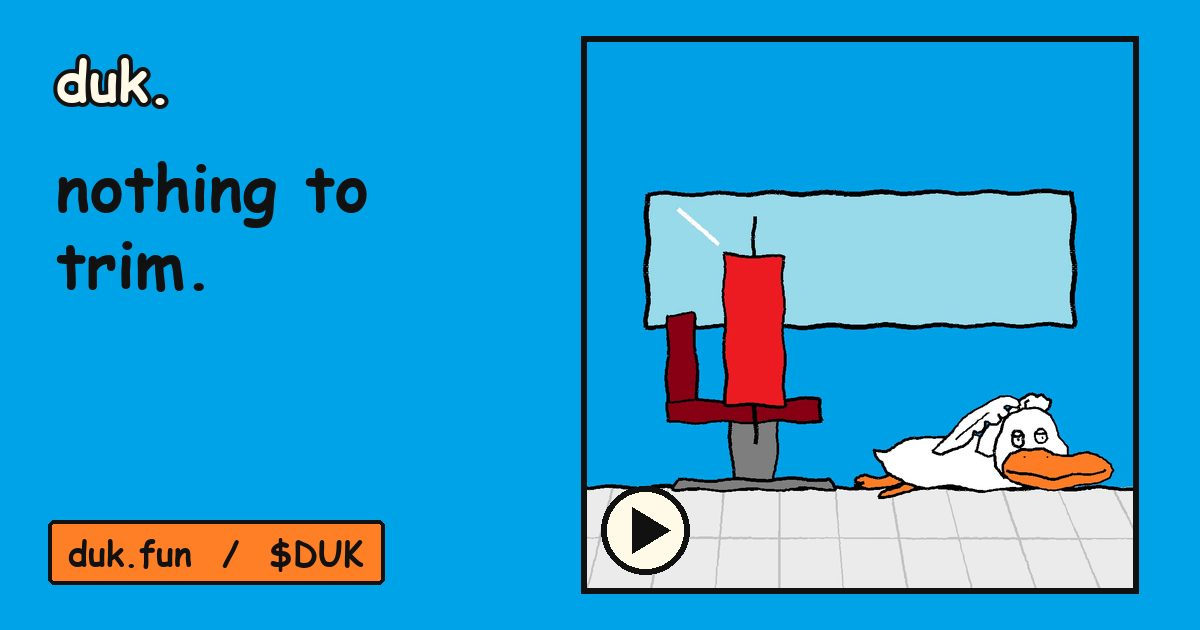
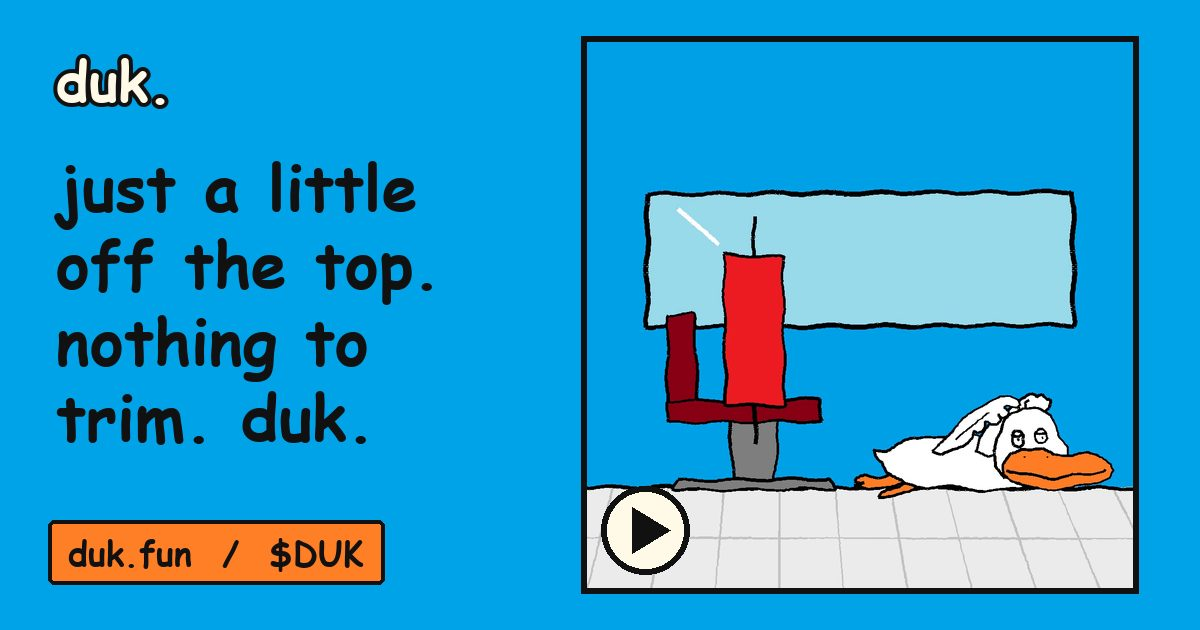
content: 204 memes, 9 comics, 132 gifs, 116 clips

Changed region(s): [[0.0308, 0.2413, 0.37, 0.7238], [0.0308, 0.6333, 0.185, 0.7238]]

diff --git a/s/clips2-116_started_on_the_floor.html b/s/clips2-116_started_on_the_floor.html
@@ -3,27 +3,27 @@
 <head>
   <meta charset="utf-8">
   <meta name="viewport" content="width=device-width, initial-scale=1">
-  <title>started on the floor. / duk.</title>
+  <title>twister. everyone fell over. he started on the floor. $duk / duk.</title>
   <meta name="robots" content="noindex">
   <meta name="duk-card" content="4">
-  <meta name="description" content="started on the floor.">
-  <meta property="og:title" content="started on the floor.">
+  <meta name="description" content="Game of twister in the living room. A spinner calls out moves and three red candles lean further and further until they topple over like dominoes. DUK lies flat across the mat in THE DUK pose the whole time. &quot;twister.&quot; &quot;everyone fell over.&quot; &quot;he started on the floor.&quot; &quot;duk.&quot;">
+  <meta property="og:title" content="twister. everyone fell over. he started on the floor. $duk">
   <meta property="og:description" content="just duk. $DUK">
   <meta property="og:type" content="website">
   <meta property="og:url" content="https://duk.fun/s/clips2-116_started_on_the_floor.html">
-  <meta property="og:image" content="https://duk.fun/s/img/clips2-116_started_on_the_floor.jpg?v=1d9a4f9e">
+  <meta property="og:image" content="https://duk.fun/s/img/clips2-116_started_on_the_floor.jpg?v=c166dfb2">
   <meta property="og:image:width" content="1200">
   <meta property="og:image:height" content="630">
-  <meta property="og:image:alt" content="started on the floor.">
+  <meta property="og:image:alt" content="Game of twister in the living room. A spinner calls out moves and three red candles lean further and further until they topple over like dominoes. DUK lies flat across the mat in THE DUK pose the whole time. &quot;twister.&quot; &quot;everyone fell over.&quot; &quot;he started on the floor.&quot; &quot;duk.&quot;">
   <meta property="og:site_name" content="duk.">
   <meta name="twitter:card" content="summary_large_image">
-  <meta name="twitter:title" content="started on the floor.">
+  <meta name="twitter:title" content="twister. everyone fell over. he started on the floor. $duk">
   <meta name="twitter:description" content="just duk. $DUK">
-  <meta name="twitter:image" content="https://duk.fun/s/img/clips2-116_started_on_the_floor.jpg?v=1d9a4f9e">
-  <meta name="twitter:image:alt" content="started on the floor.">
+  <meta name="twitter:image" content="https://duk.fun/s/img/clips2-116_started_on_the_floor.jpg?v=c166dfb2">
+  <meta name="twitter:image:alt" content="Game of twister in the living room. A spinner calls out moves and three red candles lean further and further until they topple over like dominoes. DUK lies flat across the mat in THE DUK pose the whole time. &quot;twister.&quot; &quot;everyone fell over.&quot; &quot;he started on the floor.&quot; &quot;duk.&quot;">
   <meta name="twitter:site" content="@justdukfun">
   <meta http-equiv="refresh" content="0; url=../watch.html#clip-116_started_on_the_floor">
   <script>location.replace("../watch.html#clip-116_started_on_the_floor");</script>
 </head>
-<body><p><a href="../watch.html#clip-116_started_on_the_floor">started on the floor.</a></p></body>
+<body><p><a href="../watch.html#clip-116_started_on_the_floor">twister. everyone fell over. he started on the floor. $duk</a></p></body>
 </html>

diff --git a/s/clips2-115_nothing_to_trim.html b/s/clips2-115_nothing_to_trim.html
@@ -3,27 +3,27 @@
 <head>
   <meta charset="utf-8">
   <meta name="viewport" content="width=device-width, initial-scale=1">
-  <title>nothing to trim. / duk.</title>
+  <title>just a little off the top. nothing to trim. duk. / duk.</title>
   <meta name="robots" content="noindex">
   <meta name="duk-card" content="4">
-  <meta name="description" content="nothing to trim.">
-  <meta property="og:title" content="nothing to trim.">
+  <meta name="description" content="A barber shop. Buzzing clippers sweep across at lower and lower heights and trim a red candle in the barber chair down to a stub, pieces flying. DUK lies flat on the floor in THE DUK pose; the last pass skims right over him. &quot;just a little off the top.&quot; &quot;nothing to trim.&quot; &quot;duk.&quot;">
+  <meta property="og:title" content="just a little off the top. nothing to trim. duk.">
   <meta property="og:description" content="just duk. $DUK">
   <meta property="og:type" content="website">
   <meta property="og:url" content="https://duk.fun/s/clips2-115_nothing_to_trim.html">
-  <meta property="og:image" content="https://duk.fun/s/img/clips2-115_nothing_to_trim.jpg?v=309a8f77">
+  <meta property="og:image" content="https://duk.fun/s/img/clips2-115_nothing_to_trim.jpg?v=725fe36d">
   <meta property="og:image:width" content="1200">
   <meta property="og:image:height" content="630">
-  <meta property="og:image:alt" content="nothing to trim.">
+  <meta property="og:image:alt" content="A barber shop. Buzzing clippers sweep across at lower and lower heights and trim a red candle in the barber chair down to a stub, pieces flying. DUK lies flat on the floor in THE DUK pose; the last pass skims right over him. &quot;just a little off the top.&quot; &quot;nothing to trim.&quot; &quot;duk.&quot;">
   <meta property="og:site_name" content="duk.">
   <meta name="twitter:card" content="summary_large_image">
-  <meta name="twitter:title" content="nothing to trim.">
+  <meta name="twitter:title" content="just a little off the top. nothing to trim. duk.">
   <meta name="twitter:description" content="just duk. $DUK">
-  <meta name="twitter:image" content="https://duk.fun/s/img/clips2-115_nothing_to_trim.jpg?v=309a8f77">
-  <meta name="twitter:image:alt" content="nothing to trim.">
+  <meta name="twitter:image" content="https://duk.fun/s/img/clips2-115_nothing_to_trim.jpg?v=725fe36d">
+  <meta name="twitter:image:alt" content="A barber shop. Buzzing clippers sweep across at lower and lower heights and trim a red candle in the barber chair down to a stub, pieces flying. DUK lies flat on the floor in THE DUK pose; the last pass skims right over him. &quot;just a little off the top.&quot; &quot;nothing to trim.&quot; &quot;duk.&quot;">
   <meta name="twitter:site" content="@justdukfun">
   <meta http-equiv="refresh" content="0; url=../watch.html#clip-115_nothing_to_trim">
   <script>location.replace("../watch.html#clip-115_nothing_to_trim");</script>
 </head>
-<body><p><a href="../watch.html#clip-115_nothing_to_trim">nothing to trim.</a></p></body>
+<body><p><a href="../watch.html#clip-115_nothing_to_trim">just a little off the top. nothing to trim. duk.</a></p></body>
 </html>

diff --git a/s/gifs2-133_off_the_top.html b/s/gifs2-133_off_the_top.html
@@ -6,7 +6,7 @@
   <title>off the top. / duk.</title>
   <meta name="robots" content="noindex">
   <meta name="duk-card" content="4">
-  <meta name="description" content="off the top.">
+  <meta name="description" content="Buzzing clippers skim just over DUK lying flat and trim another piece off a red candle in a barber chair: &quot;off the top.&quot;">
   <meta property="og:title" content="off the top.">
   <meta property="og:description" content="just duk. $DUK">
   <meta property="og:type" content="website">
@@ -14,13 +14,13 @@
   <meta property="og:image" content="https://duk.fun/s/img/gifs2-133_off_the_top.jpg?v=3c374bb4">
   <meta property="og:image:width" content="1200">
   <meta property="og:image:height" content="630">
-  <meta property="og:image:alt" content="off the top.">
+  <meta property="og:image:alt" content="Buzzing clippers skim just over DUK lying flat and trim another piece off a red candle in a barber chair: &quot;off the top.&quot;">
   <meta property="og:site_name" content="duk.">
   <meta name="twitter:card" content="summary_large_image">
   <meta name="twitter:title" content="off the top.">
   <meta name="twitter:description" content="just duk. $DUK">
   <meta name="twitter:image" content="https://duk.fun/s/img/gifs2-133_off_the_top.jpg?v=3c374bb4">
-  <meta name="twitter:image:alt" content="off the top.">
+  <meta name="twitter:image:alt" content="Buzzing clippers skim just over DUK lying flat and trim another piece off a red candle in a barber chair: &quot;off the top.&quot;">
   <meta name="twitter:site" content="@justdukfun">
   <meta http-equiv="refresh" content="0; url=../stickers.html#gif-133_off_the_top">
   <script>location.replace("../stickers.html#gif-133_off_the_top");</script>

diff --git a/s/gifs2-134_twister.html b/s/gifs2-134_twister.html
@@ -6,7 +6,7 @@
   <title>twister. / duk.</title>
   <meta name="robots" content="noindex">
   <meta name="duk-card" content="4">
-  <meta name="description" content="twister.">
+  <meta name="description" content="Three red candles playing twister topple over like dominoes while DUK lies flat on the mat: &quot;twister.&quot;">
   <meta property="og:title" content="twister.">
   <meta property="og:description" content="just duk. $DUK">
   <meta property="og:type" content="website">
@@ -14,13 +14,13 @@
   <meta property="og:image" content="https://duk.fun/s/img/gifs2-134_twister.jpg?v=6c5a353c">
   <meta property="og:image:width" content="1200">
   <meta property="og:image:height" content="630">
-  <meta property="og:image:alt" content="twister.">
+  <meta property="og:image:alt" content="Three red candles playing twister topple over like dominoes while DUK lies flat on the mat: &quot;twister.&quot;">
   <meta property="og:site_name" content="duk.">
   <meta name="twitter:card" content="summary_large_image">
   <meta name="twitter:title" content="twister.">
   <meta name="twitter:description" content="just duk. $DUK">
   <meta name="twitter:image" content="https://duk.fun/s/img/gifs2-134_twister.jpg?v=6c5a353c">
-  <meta name="twitter:image:alt" content="twister.">
+  <meta name="twitter:image:alt" content="Three red candles playing twister topple over like dominoes while DUK lies flat on the mat: &quot;twister.&quot;">
   <meta name="twitter:site" content="@justdukfun">
   <meta http-equiv="refresh" content="0; url=../stickers.html#gif-134_twister">
   <script>location.replace("../stickers.html#gif-134_twister");</script>
